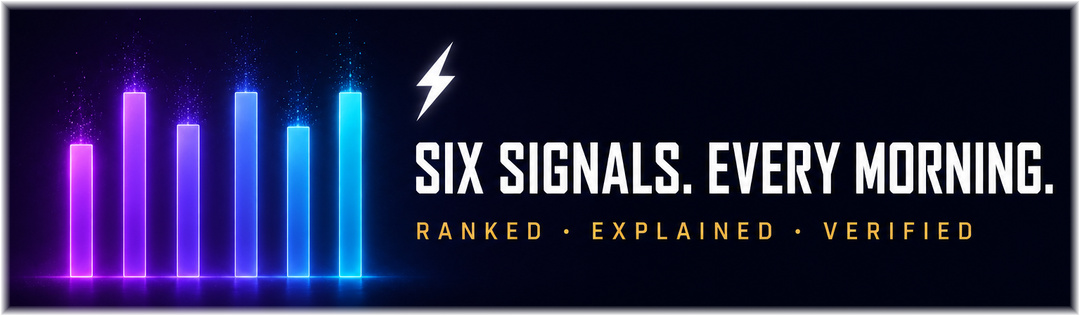
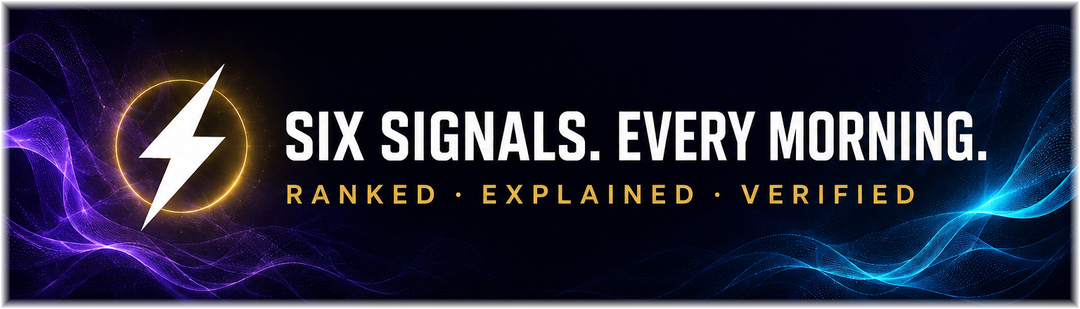
feat(panels): MKT-60 — panel_app art regenerated (filename kept), panel_receipts + panel_measures registered, panel_signals retired; built + published, served bytes verified; handoff v4.0

diff --git a/scripts/panel-config.ts b/scripts/panel-config.ts
@@ -24,7 +24,7 @@ export interface PanelClearance {
 
 export const CLEARANCE: Record<string, PanelClearance> = {
[2 lines of base64/hex data omitted]
+  // 'panel_signals.png' RETIRED 2026-08-19 (MKT-60) — replaced by panel_measures; last cleared sha e1a13a10….
[2 lines of base64/hex data omitted]
   // ⚠ COPY IS STALE — awaiting regenerated artwork (content agent, 2026-07-28).
@@ -49,7 +49,27 @@ export const CLEARANCE: Record<string, PanelClearance> = {
   // PLAY inside "GOOGLE PLAY", which would have forced a linter exception on
   // any public surface. Reviewed by eye at tier 1 — no numerals at all (Q1),
   // and SIGNALS / RANKED / EXPLAINED / VERIFIED are all sanctioned (Q2).
[1 lines of base64/hex data omitted]
+  // MKT-60 (2026-08-19): panel_app ARTWORK REGENERATED (ring-bolt + light waves)
+  // with IDENTICAL copy — "SIX SIGNALS. EVERY MORNING." / "RANKED · EXPLAINED ·
+  // VERIFIED". ⚠ FILENAME KEPT BY OPERATOR RULING: the slot name is HISTORICAL
+  // (it once read "THE APP IS COMING"); the label in reelPanels.ts tracks the
+  // copy. Cleared by eye from rendered pixels at modal size: strings exact
+  // incl. both periods and the middle dots, tier-neutral, true in both rooms,
+  // no numerals, no glyphs in the light, no watermark inside the band (band
+  // y294-732 of 1536x1024, 3.50:1). Previous source sha 1af55fb… (7/29 bars
+  // artwork) is in git history.
[1 lines of base64/hex data omitted]
+  // MKT-60 new members, cleared by eye from rendered pixels at modal size:
+  //   receipts — "PUBLISHED BEFORE THE DRAW." / "GRADED AFTER · IN THE OPEN";
+  //              plain gold ring round the bolt (no marks/lettering, 2x);
+  //              band y293-730, 3.51:1.
+  //   measures — "ENERGY · MOMENTUM" / "PATTERN · CONSISTENCY" / "FOUR MEASURES
+  //              BEHIND EVERY SIGNAL" (three lines; third line reads at the
+  //              ~1000px in-modal width); four gold rules are equal-length
+  //              PLAIN MARKS, not a chart (2x); band y285-735, 3.41:1.
+  //   Both tier-neutral, true in both rooms, no numerals ("FOUR" is a word).
[3 lines of base64/hex data omitted]
 };
 

diff --git a/constants/reelPanels.ts b/constants/reelPanels.ts
@@ -44,7 +44,10 @@ export interface ReelPanel {
 // so no panel may carry pricing, an upgrade CTA, or a Pro pitch (SOCIAL-13).
 export const REEL_PANELS: ReelPanel[] = [
   { file: 'panel_brand.png',    label: 'Brand wordmark' },
-  { file: 'panel_signals.png',  label: 'Four signals' },
+  // MKT-60 (2026-08-19): panel_signals RETIRED — its message (the four
+  // components) is restated by panel_measures in the DESIGN-03 vocabulary;
+  // carrying both would be one idea wearing two filenames. Source kept under
+  // panels/retired/; bucket object deleted.
   { file: 'panel_coverage.png', label: 'Coverage map' },
   { file: 'panel_anchor.png',   label: 'The Data Desk' },
   // Filename kept: it is the clearance key, the bucket object name and the
@@ -53,6 +56,10 @@ export const REEL_PANELS: ReelPanel[] = [
   // changed 2026-07-29 from "THE APP IS COMING" to "SIX SIGNALS. EVERY MORNING."
   { file: 'panel_app.png',      label: 'Six signals' },
   { file: 'panel_zk30.png',     label: 'ZK30 teaser' },
+  // MKT-60 (2026-08-19) — two new members. Copy is tier-neutral, true in both
+  // rooms (reel viewer without the app / subscriber inside it), no numerals.
+  { file: 'panel_receipts.png', label: 'Published before the draw' },
+  { file: 'panel_measures.png', label: 'Four measures' },
 ];
 
 /** Modal segments in the All-Day body — one panel each. */

diff --git a/MASTER_AUDIT.md b/MASTER_AUDIT.md
@@ -425,7 +425,7 @@ Tail parity checked against the pool rather than asserted: serving members SPLIT
 
 ---
 
-### MKT-60 — Panel set 6 → 8 (panel_app regeneration + panel_receipts + panel_measures) ⏸ PHASE 0 GATE REPORTED — awaiting operator rulings (2026-08-19)
+### MKT-60 — Panel set 6 → 7: panel_app art regenerated, receipts + measures NEW, panel_signals RETIRED ✅ SHIPPED + PUBLISHED (2026-08-19; handoff v4.0)
 
 **ID verified free** (audit 0 / code 0). Amended scope (supersedes the panel_app-only order). Three PNGs landed at `assets/marketing/` ROOT (not `panels/` — will be moved at build). Nothing touched yet; current `panels/panel_app.png` is in git (sha 1af55fb…), so the swap has a rollback without a manual backup.
 
@@ -435,7 +435,9 @@ Tail parity checked against the pool rather than asserted: serving members SPLIT
 
 **Phase 0 Q2 — distinctness across eight (copy read from pixels):** 1 brand "HITMASTER ZK6" · 2 signals "FOUR SIGNALS. ONE VERDICT. / FREQ · MOMO · PATTERN · CONSIST" · 3 coverage "EVERY DRAW IN THE COUNTRY / 39 TRACKED FEEDS · 40+ STATES & PROVINCES" · 4 anchor "THE DATA DESK / HITMASTER ZK6" · 5 app "SIX SIGNALS. EVERY MORNING. / RANKED · EXPLAINED · VERIFIED" · 6 zk30 "HITMASTER ZK30 / SINGLE-STATE ENGINE · COMING SOON" · 7 receipts "PUBLISHED BEFORE THE DRAW. / GRADED AFTER · IN THE OPEN" · 8 measures "ENERGY · MOMENTUM / PATTERN · CONSISTENCY / FOUR MEASURES BEHIND EVERY SIGNAL". **The operator's suspected pair (app ↔ measures) reads DISTINCT** — six daily signals vs the four measures inside each; two ideas. **The real duplicate is signals ↔ measures:** both enumerate the same four components (FREQ/ENERGY · MOMO/MOMENTUM · PATTERN · CONSIST/CONSISTENCY); measures is panel_signals restated in the DESIGN-03 vocabulary, with the clearer word ("measures" — the app calls the six picks "signals", so "FOUR SIGNALS" is the confusing one). Recommendation to rule on: **measures REPLACES signals (retire panel_signals) → pool 7 now, 8 with cadence**, rather than carrying both. Two side findings while reading all eight: (a) panel_zk30 promises "COMING SOON" for a single-state engine whose per-state path was CLOSED at Phase 0 (ENG-PERSTATE-P0, 8/13) — a truth-in-both-rooms question for the operator, not this order; (b) panel_coverage carries numerals ("39", "40+") — two-digit, Q1 is about three-digit combinations, cleared 7/27, noted only.
 
-**Stopped at the gate per the order. Phases 1–4 (spec/band aspects, legibility at modal size incl. measures' third line, manual clearance + sha pins, build, bucket push, served-bytes comparison, registration, in-context crops, §7) run after the rulings.** Standing question requested: converting panel copy from baked pixels to config strings = a `ReelPromoPanel` text layer over text-free art (the MKT-10 pattern) — art files lose their type, the component renders lines from `reelPanels.ts`, clearance moves from sha-of-pixels to lint-of-strings + one sha per art bed; every future wording fix becomes a string edit. Cost: ~1 component change + 8 text-free art regenerations + a lint hook; the sha pin stays for the art beds. Not built.
+**RULINGS (operator, same day): keep the filename; measures replaces signals. PHASES 1–4 EXECUTED:** spec — all three 1536×1024, band = the only content run (no watermark row), aspects 3.50/3.51/3.41:1 (briefed ~3.5), feathered 10px; legibility at the ~1000px in-modal width — every line reads incl. measures' third line (not a regen candidate). Manual clearance from pixels: strings exact (periods, middle dots), tier-neutral, true in both rooms, no numerals/glyphs/watermark; receipts' ring plain; measures' four rules equal-length plain marks, not a chart. Pins (cleared 2026-08-19): app d0dfc723…, receipts 745ce761…, measures cc518b0d…; panel_signals removed from `REEL_PANELS` + `CLEARANCE` (source → `panels/retired/`, built moved aside, bucket object DELETED → fetch 400). `panel:build` 7/7 built + published; **served bytes fetched and compared: all seven MATCH the local build** (panel_app now e8c4691a…, old bd45a84b… gone); `reel:check` "all 7 served … byte-matching", 0 FAIL. Rotation at 7 (6 modals/day): distinct six per day, no gap, no double-draw (8/19–8/26 simulated; sliding window — day-to-day neighbours persist). In-context: allday pro body rendered against the dev server (not assembled/published); 100% crops of modals 3/5/6 with app/receipts/measures below RESOLVED IN at `assets/marketing/panels/_mkt60_incontext_20260819.png` — all read at rendered size. **⚠ Deployment:** captures read `REEL_PANELS` from the dev server (tomorrow's reels carry 7); subscriber devices read it from their installed/served build — a release/web redeploy moves the in-app rotation; until then devices still request `panel_signals.png` which the bucket no longer serves (verify the component's 400 behaviour on device; re-upload is a one-line undo). §G.6 PARTIALLY closed: 7 served, panel_cadence ungenerated (7 → 8). Baked-pixels→config-strings conversion reported (not built). Side observation flagged: the MKT-57 stamp chip at y=1000 persists over the modal segments' WHY THIS ORDER rows on assembled reels (since 8/17) — operator to rule.
+
+*Original gate text:* Stopped at the gate per the order. Phases 1–4 (spec/band aspects, legibility at modal size incl. measures' third line, manual clearance + sha pins, build, bucket push, served-bytes comparison, registration, in-context crops, §7) run after the rulings.** Standing question requested: converting panel copy from baked pixels to config strings = a `ReelPromoPanel` text layer over text-free art (the MKT-10 pattern) — art files lose their type, the component renders lines from `reelPanels.ts`, clearance moves from sha-of-pixels to lint-of-strings + one sha per art bed; every future wording fix becomes a string edit. Cost: ~1 component change + 8 text-free art regenerations + a lint hook; the sha pin stays for the art beds. Not built.
 
 ---
 
